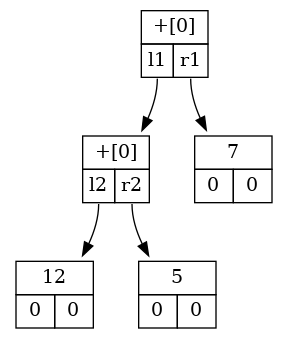
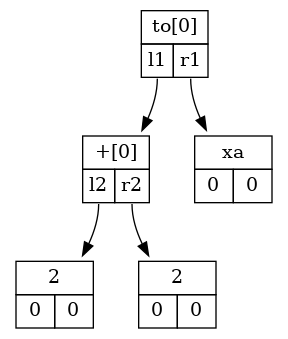
Now we can build multi-line tree

diff --git a/src/Calc.cpp b/src/Calc.cpp
@@ -1,8 +1,10 @@
-/*  G::= E'$'
+/*  G::= S'$'
     E::= T{[+-]T} *
     T::= P{[*\]P} *
-    P::= '('E')' | N
-    N::= [0]-9 +
+    P::= '('E')' | V '('E')' | V  | N
+    S::=  (V 'in' E) | (E 'to' V) | E  
+    V::= TYPE_VAR
+    N::= TYPE_CONST
 */
 
 #include "calc.h"
@@ -10,8 +12,7 @@
 int main() {
     Text expression = {};
     Text keywords   = {};
-
-    Tokens tokens = {};
+    Tokens tokens   = {};
 
     MakeText(&expression, CALC_FILE);
     MakeText(&keywords, KEYS_FILE);
@@ -19,16 +20,34 @@ int main() {
     AnalyseText(&expression, &tokens, &keywords);
     for (uint32_t curToken = 0; tokens.array[curToken].type != 0; curToken++) {
         if (tokens.array[curToken].type == TYPE_VAR)
-            printf("'%s'[VAR], ", tokens.array[curToken].data.expression);
+            printf("'%s'[VAR], \n", tokens.array[curToken].data.expression);
         else if (tokens.array[curToken].type == TYPE_CONST)
-            printf("'%d'[CONST], ", tokens.array[curToken].data.number);
+            printf("'%d'[CONST], \n", tokens.array[curToken].data.number);
         else if ((tokens.array[curToken].type == TYPE_OP) || (tokens.array[curToken].type == TYPE_UNO))
-            printf("'%c{%d}'[OP], ", tokens.array[curToken].data.operation, tokens.array[curToken].data.number);
+            printf("'%c{%d}'[OP], \n", tokens.array[curToken].data.operation, tokens.array[curToken].data.number);
+        else if (tokens.array[curToken].type == TYPE_KEYWORD)
+            printf("'%c{%d}'[KEY], \n", tokens.array[curToken].data.operation, tokens.array[curToken].data.number);
     }
 
     TreeCtor(AST);
 
     AST.root = GetG(&tokens.array);
+    Node* bottom = AST.root;
+
+    while((tokens.array->type != TYPE_KEYWORD) || (tokens.array->data.operation != KEY_END)) {
+        printf("WE'RE ON ");
+        if (tokens.array->type == TYPE_VAR)
+            printf("'%s'[VAR], \n", tokens.array->data.expression);
+        else if (tokens.array->type == TYPE_CONST)
+            printf("'%d'[CONST], \n", tokens.array->data.number);
+        else if ((tokens.array->type == TYPE_OP) || (tokens.array->type == TYPE_UNO))
+            printf("'%c{%d}'[OP], \n", tokens.array->data.operation, tokens.array->data.number);
+        else if (tokens.array->type == TYPE_KEYWORD)
+            printf("'%c{%d}'[KEY], \n", tokens.array->data.operation, tokens.array->data.number);
+
+        bottom->right = GetG(&tokens.array);
+        bottom = bottom->right;
+    }
     MakeTreeGraph(&AST, G_STANDART_NAME);
 
     printf("OK\n");
@@ -39,8 +58,51 @@ Node* GetG(Node** pointer) {
     assert(pointer  != nullptr);
     assert(*pointer != nullptr);
 
-    Node* retValue = GetE(pointer);
-    Require(((**pointer).type != TYPE_UNO) || ((**pointer).data.operation != '$'));
+    Node* retValue = GetS(pointer);
+    
+    printf("type is %d; operation is %c\n", (**pointer).type, (**pointer).data.operation);
+    
+    if (((**pointer).type == TYPE_UNO) && ((**pointer).data.operation == '$')) {
+        (*pointer)->left = retValue;
+        retValue = *pointer;
+
+        (*pointer)++;
+    }
+    else {
+        assert("SYNTAX ERROR, EOL NOT FOUND");
+    }
+
+    return retValue;
+}
+
+Node* GetS(Node** pointer) {
+    assert(pointer  != nullptr);
+    assert(*pointer != nullptr);
+
+    Node* retValue       = 0;
+
+    if (((**pointer).type == TYPE_VAR) &&
+        ((*(*pointer + 1)).type == TYPE_KEYWORD) && ((*(*pointer + 1)).data.operation == KEY_IN)) {
+        retValue       = *pointer + 1;
+        retValue->left = GetV(pointer);
+        
+        (*pointer)++;
+        retValue->right = GetE(pointer);
+    }
+    else {
+        Node* expression = GetE(pointer);
+
+        if (((**pointer).type == TYPE_KEYWORD) && ((**pointer).data.operation == KEY_TO)) {
+            retValue = *pointer;
+            (*pointer)++;
+
+            retValue->left  = expression;
+            retValue->right = GetV(pointer);
+        }
+        else {
+            retValue = expression;
+        }
+    }
 
     return retValue;
 }
@@ -102,11 +164,37 @@ Node* GetP(Node** pointer) {
         printf("GetP looking at %c[%d] with type %d\n", (**pointer).data.operation, (**pointer).data.number, (**pointer).type);
         Require(((**pointer).type != TYPE_UNO) || ((**pointer).data.operation != ')'));
     }
+    else if ((**pointer).type == TYPE_VAR) {
+        retValue = GetV(pointer);
+
+        if (((**pointer).type == TYPE_UNO) && ((**pointer).data.operation == '(')) {
+            (*pointer)++;
+            retValue->type = TYPE_FUNC;
+
+            if (((**pointer).type != TYPE_UNO) || ((**pointer).data.operation != ')'))
+                retValue->right = GetE(pointer);
+            Require(((**pointer).type != TYPE_UNO) || ((**pointer).data.operation != ')'));
+        }
+    }
     else {
         retValue = GetN(pointer);
     }
 
     assert(retValue != nullptr);
+    return retValue;
+}
+
+Node* GetV(Node** pointer) {
+    assert(pointer  != nullptr);
+    assert(*pointer != nullptr);
+
+    Node* retValue = *pointer;
+    (*pointer)++;
+
+    if ((*retValue).type != TYPE_VAR) {
+        assert(FAIL && "INVALID RETURN FOR GET V FUNCTION");
+    } 
+
     return retValue;
 }
 
@@ -127,7 +215,7 @@ Node* GetN(Node** pointer) {
 void SkipSpaces(int8_t** pointer) {
     assert(pointer != nullptr);
 
-    if (isspace(**pointer)) {
+    while (isspace(**pointer) || (**pointer == '\0')) {
         (*pointer)++;
     }
 }
@@ -135,7 +223,7 @@ void SkipSpaces(int8_t** pointer) {
 void AnalyseText(Text* text, Tokens* tokens, Text* keywords) {
     assert(text != nullptr);
 
-    tokens->array    = (Node*)calloc(text->bufSize, sizeof(tokens->array[0]));
+    tokens->array    = (Node*)  calloc(text->bufSize, sizeof(tokens->array[0]));
     tokens->database = (int8_t*)calloc(text->bufSize, sizeof(tokens->database[0]));
 
     int8_t* beginning = text->buffer;
@@ -143,11 +231,11 @@ void AnalyseText(Text* text, Tokens* tokens, Text* keywords) {
     int64_t tokensCounter   = 0;
     int64_t databaseCounter = 0;
     
-    for (int8_t* curChar = text->buffer; (curChar - beginning < text->bufSize) && *curChar != '\0'; curChar++) {
+    for (int8_t* curChar = text->buffer; (size_t)(curChar - beginning) < text->bufSize; curChar++) {
         SkipSpaces(&curChar);
         
         if ((*curChar >= 'A') && (*curChar <= 'z')) {
-            int8_t* bufferRemember = tokens->database;
+            int8_t* bufferRemember = tokens->database + databaseCounter;
             
             while (((*curChar >= 'A') && (*curChar <= 'z')) ||
                    ((*curChar >= '0') && (*curChar <= '9'))) {
@@ -162,16 +250,20 @@ void AnalyseText(Text* text, Tokens* tokens, Text* keywords) {
         
             int8_t keywordNum = 0;
             if ((keywordNum = IsKeyword(bufferRemember, keywords))) {
-                tokens->array[tokensCounter].type = TYPE_OP;
-                tokens->array[tokensCounter].data.operation = keywordNum;
+                tokens->array[tokensCounter].type            = TYPE_KEYWORD;
+                tokens->array[tokensCounter].data.operation  = keywordNum;
 
                 databaseCounter = bufferRemember - tokens->database;
             }
             else {
-                tokens->array[tokensCounter] = {bufferRemember, TYPE_VAR};
+                tokens->array[tokensCounter].data.expression = bufferRemember;
+                tokens->array[tokensCounter].type            = TYPE_VAR;
             }
-
+            
             tokensCounter++;
+
+            if (keywordNum == KEY_END)
+                break;
         }
         else if ((*curChar >= '0') && (*curChar <= '9')) {
             int32_t value = 0;
@@ -217,9 +309,9 @@ void AnalyseText(Text* text, Tokens* tokens, Text* keywords) {
         }
     }
 
-    printf("TOKEN'S AMOUNT IS %d\n", tokensCounter + 1);
-    //tokens->array    = (Node*)realloc(tokens->array, tokensCounter + 1);
-    //tokens->database = (int8_t*)realloc(tokens->database, databaseCounter + 1);
+    printf("TOKEN'S AMOUNT IS %I64lld\n", tokensCounter + 1);
+    //tokens->array    = (Node*)realloc(tokens->array, tokensCounter + 3);
+    tokens->database = (int8_t*)realloc(tokens->database, databaseCounter + 3);
 }
 
 int8_t IsKeyword(int8_t* buffer, Text* keywords) {

diff --git a/src/Tree.cpp b/src/Tree.cpp
@@ -95,6 +95,33 @@ void PrintTreeNodes(Tree* tree, Node* root, FILE* output) {
             nodeData[0] = root->data.operation;
         }
         break;
+    case TYPE_KEYWORD:
+        switch(root->data.operation) {
+            case KEY_IN:
+                strcat(nodeData, "in");
+                break;
+            case KEY_TO:
+                strcat(nodeData, "to");
+                break;
+            case KEY_ELSE:
+                strcat(nodeData, "else");
+                break;
+            case KEY_IF:
+                strcat(nodeData, "if");
+                break;
+            case KEY_WHILE:
+                strcat(nodeData, "while");
+                break;
+            default:
+                fprintf(stderr, "INVALID KEYWORD %d\n", root->data.operation);
+                abort();
+                break; 
+        }
+        break;
+    case TYPE_FUNC:
+        strcat(nodeData, (const char*)root->data.expression);
+        strcat(nodeData, "()");
+        break;
     case TYPE_VAR:
         strcat(nodeData, (const char*)root->data.expression);
         break;
@@ -105,6 +132,9 @@ void PrintTreeNodes(Tree* tree, Node* root, FILE* output) {
                 break;
             case (int32_t)'c':
                 strcat(nodeData, "cos");
+                break;
+            case '$':
+                strcat(nodeData, "$$$");
                 break;
             default:
                 assert(FAIL && "UNKNOWN UNO OPERAND");
@@ -187,6 +217,28 @@ void PrintTreeNodes(Tree* tree, Node* root, FILE* output) {
                 root - pointerAnchor, curNodeNumber, root->right - pointerAnchor);
 
         PrintTreeNodes(tree, root->right, output);
+        curRecursionDepth--;
+    }
+    else if ((root->left != nullptr) && (root->right == nullptr)) {
+        fprintf(output, 
+            "\t%lld[shape=plaintext, label = <"
+            "<TABLE BORDER=\"0\" CELLBORDER=\"1\" CELLSPACING= \"0\" CELLPADDING=\"4\">"
+            "<TR>"
+                "<TD COLSPAN=\"2\">" TREE_TYPE "[%u]</TD>"
+            "</TR>"
+            "<TR>"
+                "<TD PORT = \"l%d\">" LEFT_BRANCH "</TD>"
+            "</TR>"
+            "</TABLE>>];\n",
+            root - pointerAnchor, dataConverted, root->weight,
+            curNodeNumber, LEFT_BRANCH_VALUE);
+
+        curRecursionDepth += 1;
+
+        fprintf(output, "\t\t%lld: <l%d> -> %lld;\n", 
+                root - pointerAnchor, curNodeNumber, root->left - pointerAnchor);
+
+        PrintTreeNodes(tree, root->left, output);
         curRecursionDepth--;
     }
     else {

diff --git a/src/Tree.h b/src/Tree.h
@@ -30,12 +30,23 @@ enum NodeDataTypes {
     TYPE_OP      = 2,
     TYPE_VAR     = 3,
     TYPE_UNO     = 4,
+    TYPE_KEYWORD = 5,
+    TYPE_FUNC    = 6,
+};
+
+enum KeyWords {
+    KEY_IF    = 0,
+    KEY_ELSE  = 1,
+    KEY_WHILE = 2,
+    KEY_IN = 4,
+    KEY_TO = 5,
+    KEY_END,
 };
 
 union Data {
-    int8_t* expression;
-    int8_t  operation;
     int32_t number;
+    int8_t  operation;
+    int8_t* expression;
 };
 
 struct Node {

diff --git a/src/Calc.h b/src/Calc.h
@@ -1,5 +1,7 @@
 #pragma once
 
+#include "TXLib.h"
+
 #include <stdint.h>
 #include <stdio.h>
 #include <stdlib.h>
@@ -33,7 +35,10 @@ Node* GetG(Node** pointer);
 Node* GetE(Node** pointer);
 Node* GetT(Node** pointer);
 Node* GetP(Node** pointer);
+
 Node* GetN(Node** pointer);
+Node* GetV(Node** pointer);
+Node* GetS(Node** pointer);
 
 void SkipSpaces(int8_t** pointer);
 

diff --git a/src/Graph.cpp b/src/Graph.cpp
@@ -13,6 +13,7 @@ char* MakeTreeGraph(Tree* tree, const char name[]) {
 
     fprintf(output, "digraph G{ \n");
     fprintf(output, "\tnewrank=true;\n");
+
     PrintTreeNodes(tree, tree->root, output);
     fprintf(output, "}\n");
     fclose(output);
